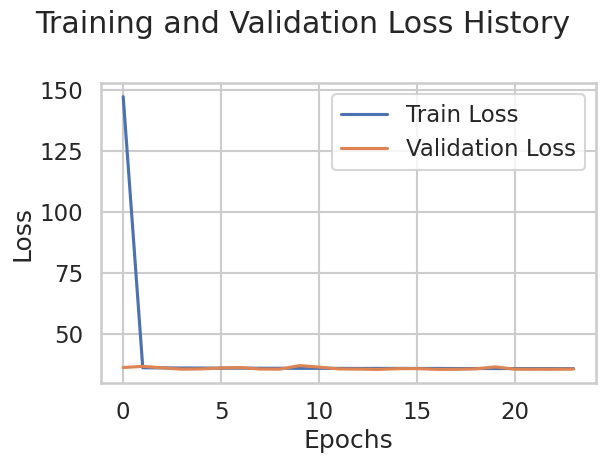
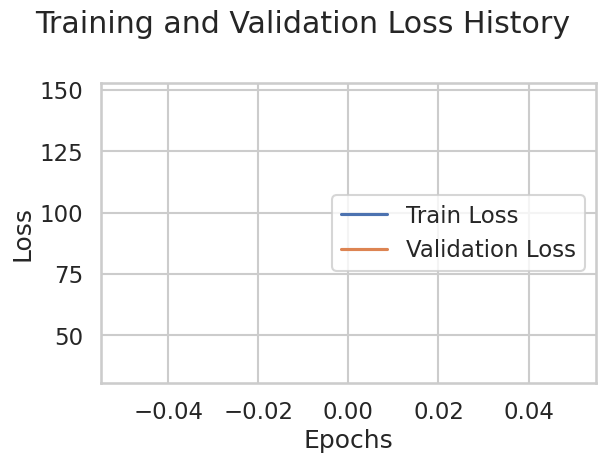
some test

diff --git a/train_models.py b/train_models.py
@@ -780,7 +780,7 @@ class SimpleNeuralNetwork(BaseModel):
 
     @BaseModel.track_resources
     def train(
-        self, X_train, y_train, lr=1e-4, epochs=50, batch_size=256, validation_split=0.2
+        self, X_train, y_train, lr=1e-4, epochs=1, batch_size=256, validation_split=0.2
     ):
         """Train the simple neural network."""
         # Handle sparse matrix
@@ -1025,7 +1025,7 @@ class ComplexNeuralNetwork(BaseModel):
 
     @BaseModel.track_resources
     def train(
-        self, X_train, y_train, lr=1e-4, epochs=50, batch_size=256, validation_split=0.2
+        self, X_train, y_train, lr=1e-4, epochs=1, batch_size=256, validation_split=0.2
     ):
         """Train the complex neural network."""
         # Handle sparse matrix
@@ -1830,7 +1830,7 @@ def main():
             dropout=0.1,
             batch_size=256,
             learning_rate=1e-4,
-            epochs=50,
+            epochs=1,
         ),
     ]
 
